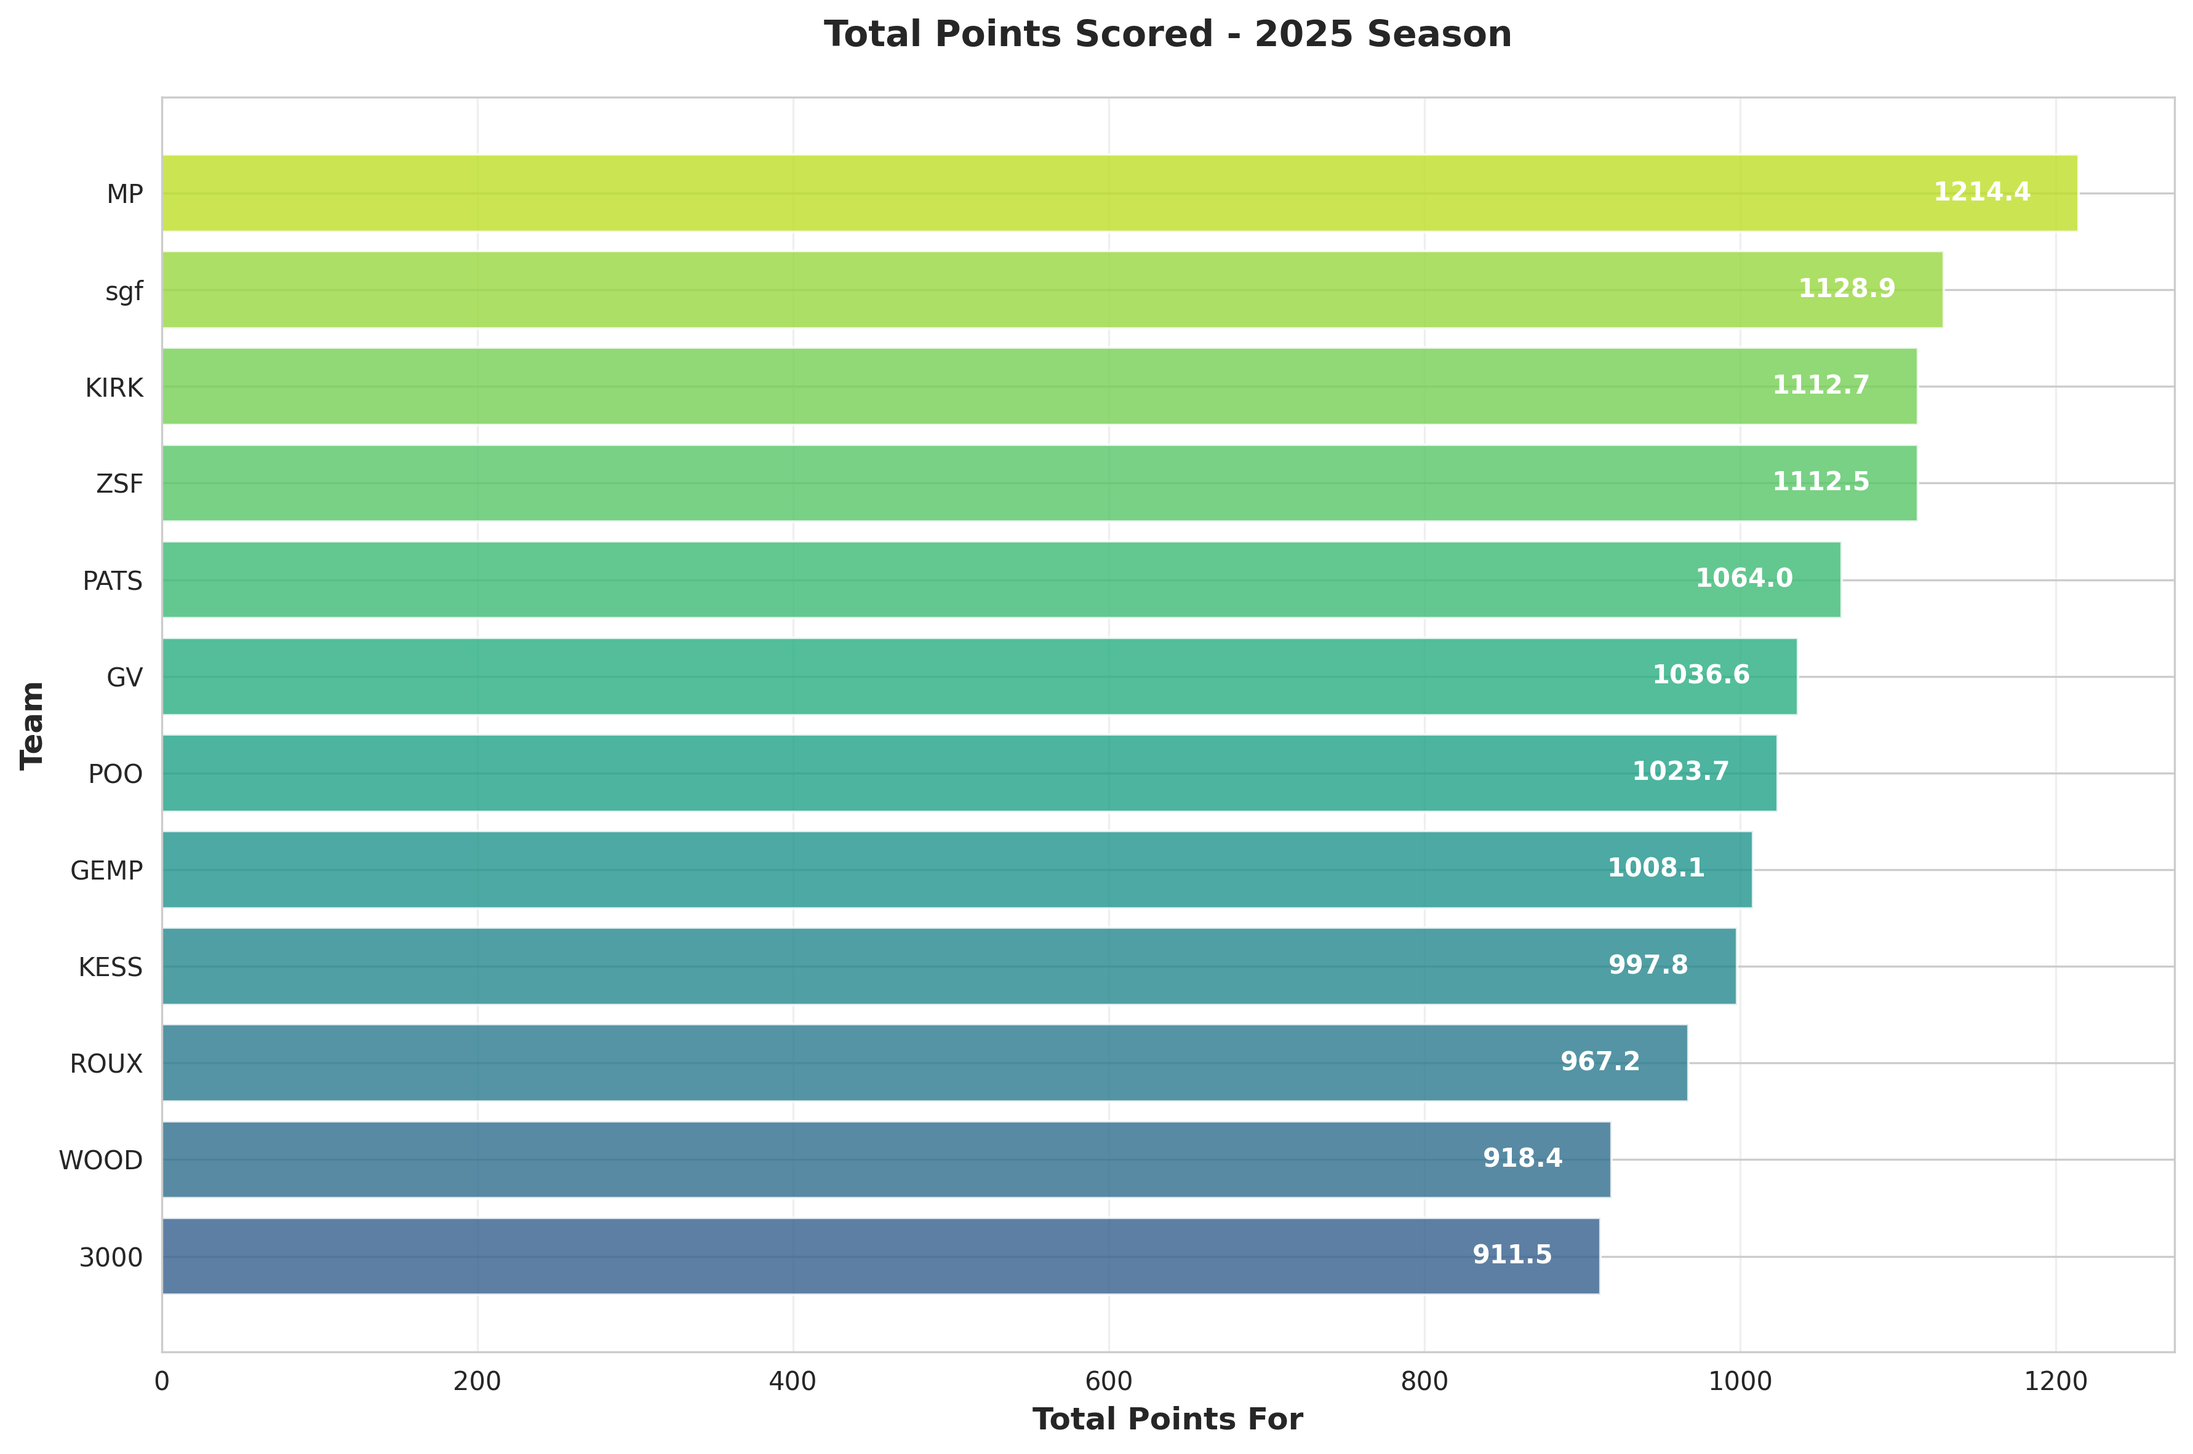
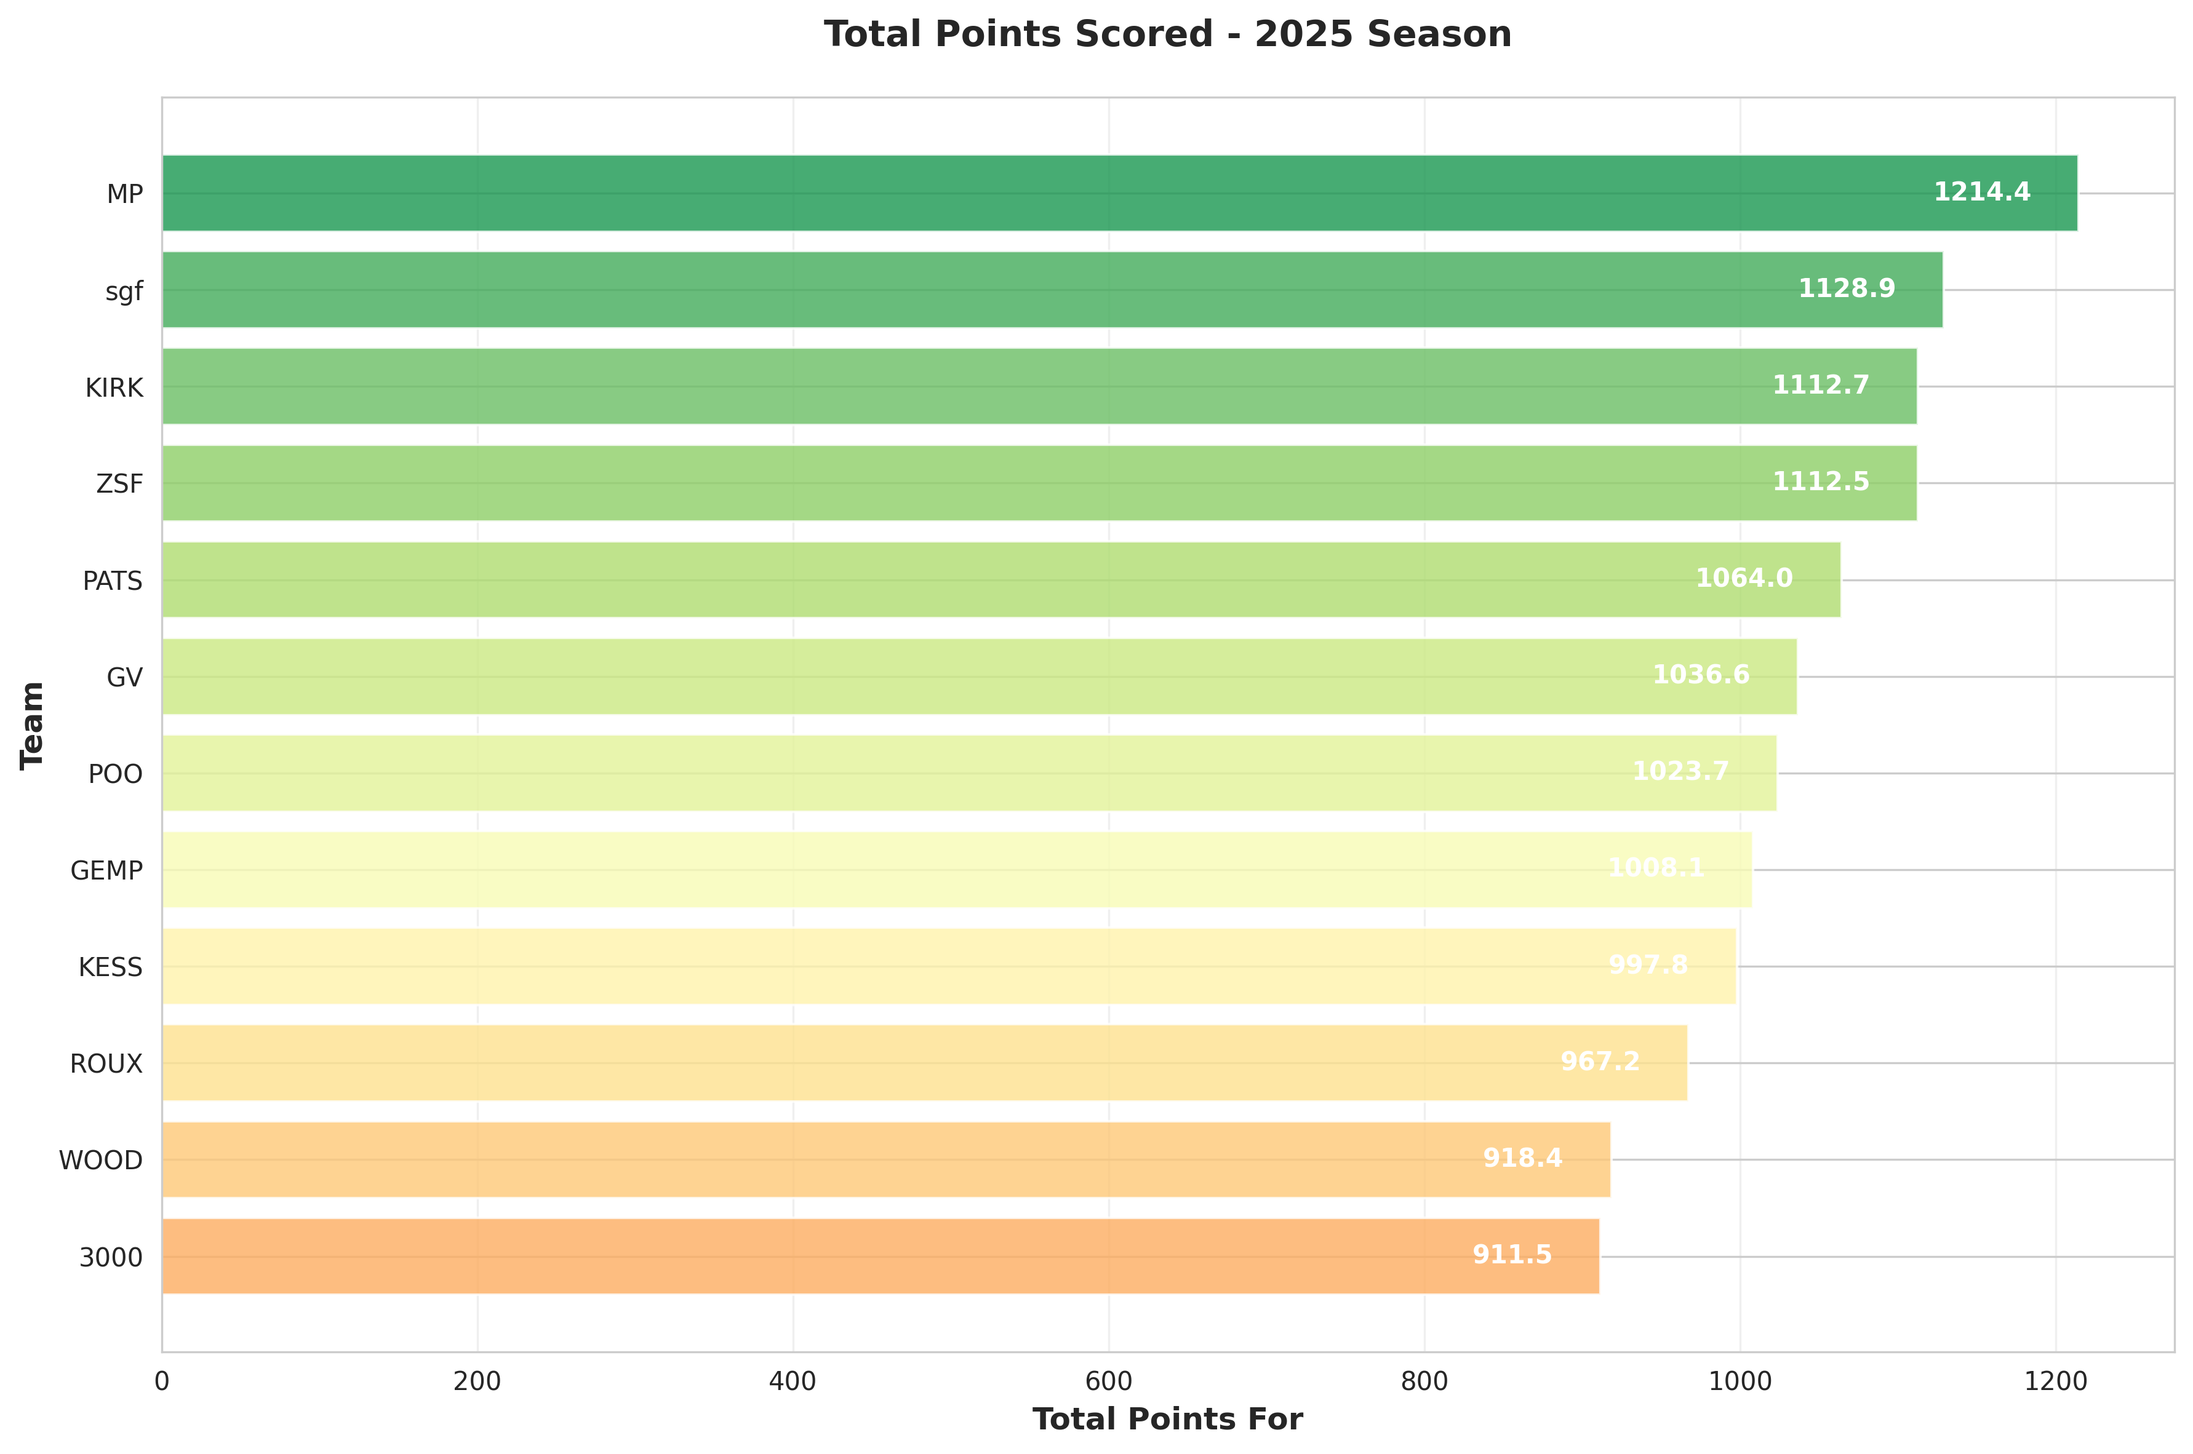
Add power rankings and new visualizations to team analysis
Update team_analysis.py to calculate and display power rankings, introduce new visualizations for power rankings and their breakdown, and modify README.md and team_summary.csv to reflect these changes.

Replit-Commit-Author: Agent
Replit-Commit-Session-Id: a1b036e6-8762-4180-88a8-0ea07671e400
Replit-Commit-Checkpoint-Type: full_checkpoint
Replit-Commit-Event-Id: 2f82d3db-87ee-41e6-abde-1336a5426d25

diff --git a/team_analysis.py b/team_analysis.py
@@ -45,11 +45,18 @@ def calculate_summary_stats(df):
         'weekly_rank': 'avg_weekly_rank'
     })
     
+    # Calculate Power Rankings
+    # Formula: (Real Wins × 2) + (Top6 Wins × 1) + (MVP-W × 1)
+    # Weights actual wins heavily, but rewards consistent high scoring
+    summary['power_score'] = (summary['real_wins'] * 2) + summary['top6_wins'] + summary['mvp_w']
+    summary['power_rank'] = summary.groupby('season')['power_score'].rank(ascending=False, method='min').astype(int)
+    
     # Round numeric columns
     summary['wax'] = summary['wax'].round(2)
     summary['ppg'] = summary['ppg'].round(2)
     summary['papg'] = summary['papg'].round(2)
     summary['avg_weekly_rank'] = summary['avg_weekly_rank'].round(2)
+    summary['power_score'] = summary['power_score'].round(2)
     
     # Sort by WAX (descending - most lucky first)
     summary = summary.sort_values('wax', ascending=False)
@@ -61,22 +68,23 @@ def print_summary_table(summary):
     print("\n" + "="*100)
     print("ESPN FANTASY FOOTBALL TEAM SUMMARY - 2024-2025 SEASONS")
     print("="*100)
-    print("\nWins Above Expectation (WAX) is derived via the following equation:")
+    print("\nPOWER RANKINGS FORMULA:")
+    print("  [Power Score] = (Real Wins × 2) + (Top6 Wins × 1) + (MVP-W × 1)")
+    print("  This weights actual matchup wins heavily while rewarding consistent high scoring.")
+    print("\nWINS ABOVE EXPECTATION (WAX):")
     print("  [WAX] = [Real Wins] - [MVP-W]")
-    print("\n[MVP-W], or Minimized Variance Potential Wins, represents a win-value agnostic")
-    print("to the weekly opponent (by calculating a theoretical win rate [0-1] assuming the")
-    print("team played all teams every week). Thus, the greater the WAX value, the more the")
-    print("manager is \"running hot\" (i.e. lucky as fuck).")
+    print("  MVP-W represents theoretical wins if playing all teams every week.")
+    print("  Positive WAX = lucky (running hot), Negative WAX = unlucky (running cold).")
     print("="*100)
     print()
     
     # Select and order columns for display
-    display_cols = ['team_name', 'season', 'real_wins', 'mvp_w', 'wax', 'top6_wins', 
-                   'points_for', 'ppg', 'avg_weekly_rank', 'games_played']
+    display_cols = ['team_name', 'season', 'power_rank', 'power_score', 'real_wins', 
+                   'top6_wins', 'mvp_w', 'wax', 'ppg', 'games_played']
     
     display_df = summary[display_cols].copy()
-    display_df.columns = ['Team', 'Season', 'Wins', 'MVP-W', 'WAX', 'Top6', 
-                          'Total PF', 'PPG', 'Avg Rank', 'GP']
+    display_df.columns = ['Team', 'Season', 'Rank', 'Power', 'Wins', 'Top6', 
+                          'MVP-W', 'WAX', 'PPG', 'GP']
     
     print(display_df.to_string(index=False))
     print("\n" + "="*100)
@@ -91,6 +99,41 @@ def create_visualizations(df, summary):
     # Get latest season data
     latest_season = df['season'].max()
     current_summary = summary[summary['season'] == latest_season].copy()
+    
+    # Figure 0: Power Rankings
+    fig, ax = plt.subplots(figsize=(12, 9))
+    
+    # Sort by power score
+    power_sorted = current_summary.sort_values('power_score', ascending=True)
+    
+    # Create color map based on rank
+    colors_power = plt.cm.RdYlGn(np.linspace(0.3, 0.9, len(power_sorted)))[::-1]
+    bars = ax.barh(power_sorted['team_name'], power_sorted['power_score'], 
+                   color=colors_power, alpha=0.85, edgecolor='black', linewidth=1.5)
+    
+    ax.set_xlabel('Power Score', fontsize=12, fontweight='bold')
+    ax.set_ylabel('Team', fontsize=12, fontweight='bold')
+    ax.set_title(f'Power Rankings - {latest_season} Season\nFormula: (Wins × 2) + (Top6 Wins) + (MVP-W)', 
+                 fontsize=14, fontweight='bold', pad=20)
+    ax.grid(axis='x', alpha=0.3)
+    
+    # Add value labels and rank
+    for bar, (idx, row) in zip(bars, power_sorted.iterrows()):
+        width = bar.get_width()
+        # Power score on the right
+        ax.text(width + 0.3, bar.get_y() + bar.get_height()/2, 
+               f'{width:.2f}', ha='left', va='center', 
+               fontweight='bold', fontsize=10)
+        # Rank number on the left
+        ax.text(0.5, bar.get_y() + bar.get_height()/2, 
+               f'#{int(row["power_rank"])}', ha='left', va='center', 
+               fontweight='bold', fontsize=11, color='white',
+               bbox=dict(boxstyle='round,pad=0.3', facecolor='black', alpha=0.7))
+    
+    plt.tight_layout()
+    plt.savefig('visualizations/power_rankings.png', dpi=300, bbox_inches='tight')
+    print("✓ Created: visualizations/power_rankings.png")
+    plt.close()
     
     # Figure 1: WAX Leaderboard
     fig, ax = plt.subplots(figsize=(12, 8))
@@ -157,7 +200,7 @@ def create_visualizations(df, summary):
     fig, ax = plt.subplots(figsize=(12, 8))
     
     sorted_summary = current_summary.sort_values('points_for', ascending=True)
-    colors_pf = plt.cm.viridis(np.linspace(0.3, 0.9, len(sorted_summary)))
+    colors_pf = plt.cm.RdYlGn(np.linspace(0.3, 0.9, len(sorted_summary)))
     bars = ax.barh(sorted_summary['team_name'], sorted_summary['points_for'], 
                    color=colors_pf, alpha=0.8)
     
@@ -179,7 +222,44 @@ def create_visualizations(df, summary):
     print("✓ Created: visualizations/total_points.png")
     plt.close()
     
-    # Figure 4: Weekly Performance Over Time
+    # Figure 4: Power Score Breakdown (Stacked Bar)
+    fig, ax = plt.subplots(figsize=(12, 9))
+    
+    breakdown_sorted = current_summary.sort_values('power_score', ascending=True)
+    
+    # Components: Real Wins (×2), Top6 Wins, MVP-W
+    wins_component = breakdown_sorted['real_wins'] * 2
+    top6_component = breakdown_sorted['top6_wins']
+    mvp_component = breakdown_sorted['mvp_w']
+    
+    y_pos = np.arange(len(breakdown_sorted))
+    
+    p1 = ax.barh(y_pos, wins_component, label='Real Wins (×2)', color='#2ecc71', alpha=0.9)
+    p2 = ax.barh(y_pos, top6_component, left=wins_component, label='Top6 Wins', color='#3498db', alpha=0.9)
+    p3 = ax.barh(y_pos, mvp_component, left=wins_component + top6_component, 
+                label='MVP-W', color='#9b59b6', alpha=0.9)
+    
+    ax.set_yticks(y_pos)
+    ax.set_yticklabels(breakdown_sorted['team_name'])
+    ax.set_xlabel('Power Score Components', fontsize=12, fontweight='bold')
+    ax.set_ylabel('Team', fontsize=12, fontweight='bold')
+    ax.set_title(f'Power Score Breakdown - {latest_season} Season', 
+                 fontsize=14, fontweight='bold', pad=20)
+    ax.legend(loc='lower right', fontsize=10, framealpha=0.9)
+    ax.grid(axis='x', alpha=0.3)
+    
+    # Add total labels
+    for i, (idx, row) in enumerate(breakdown_sorted.iterrows()):
+        total = row['power_score']
+        ax.text(total + 0.3, i, f'{total:.2f}', 
+               ha='left', va='center', fontweight='bold', fontsize=10)
+    
+    plt.tight_layout()
+    plt.savefig('visualizations/power_breakdown.png', dpi=300, bbox_inches='tight')
+    print("✓ Created: visualizations/power_breakdown.png")
+    plt.close()
+    
+    # Figure 5: Weekly Performance Over Time
     fig, ax = plt.subplots(figsize=(14, 8))
     
     # Get current season data
@@ -203,7 +283,7 @@ def create_visualizations(df, summary):
     print("✓ Created: visualizations/weekly_performance.png")
     plt.close()
     
-    # Figure 5: Weekly Rank Heatmap
+    # Figure 6: Weekly Rank Heatmap
     fig, ax = plt.subplots(figsize=(14, 10))
     
     # Create pivot table for heatmap
@@ -225,7 +305,7 @@ def create_visualizations(df, summary):
     print("✓ Created: visualizations/weekly_rank_heatmap.png")
     plt.close()
     
-    # Figure 6: Consistency Analysis (Std Dev of Weekly Rank)
+    # Figure 7: Consistency Analysis (Std Dev of Weekly Rank)
     fig, ax = plt.subplots(figsize=(12, 8))
     
     consistency = current_df.groupby('team_name').agg({
@@ -294,7 +374,9 @@ def main():
     print("ANALYSIS COMPLETE!")
     print("="*100)
     print("\nGenerated Files:")
-    print("  • team_summary.csv - Summary statistics table")
+    print("  • team_summary.csv - Summary statistics table with Power Rankings")
+    print("  • visualizations/power_rankings.png - Overall power rankings")
+    print("  • visualizations/power_breakdown.png - Power score component breakdown")
     print("  • visualizations/wax_leaderboard.png - Luck index ranking")
     print("  • visualizations/wins_vs_expected.png - Real wins vs expected wins")
     print("  • visualizations/total_points.png - Total points scored by team")

diff --git a/replit.md b/replit.md
@@ -1,0 +1,141 @@
+# ESPN Fantasy Football Scraper & Analyzer
+
+## Overview
+A comprehensive ESPN Fantasy Football data scraper and analysis tool that downloads historical league data and generates advanced statistical visualizations.
+
+**Current Status**: Fully functional with 2025 season data (weeks 1-10 processed)
+
+## Recent Changes (November 12, 2025)
+
+### Power Rankings System Added
+- Created comprehensive Power Rankings formula: `(Real Wins × 2) + (Top6 Wins) + (MVP-W)`
+- Added `power_rankings.png` visualization showing team rankings #1-#12
+- Added `power_breakdown.png` showing stacked bar chart of power score components
+- Updated `team_summary.csv` to include power_rank and power_score columns
+- Total visualizations: 8 charts now generated
+
+### Previous Features
+- ESPN API integration with private league authentication (ESPN_S2, SWID secrets)
+- Multi-season data scraping with automatic unplayed week filtering
+- Three CSV exports: matchups.csv, player_stats.csv, team_stats.csv
+- Human-readable team names, positions (QB/RB/WR/TE/K/D/ST), and slot positions (FLEX/BENCH/IR)
+- Advanced metrics: WAX (Wins Above Expectation), MVP-W, Top6 Wins
+- CSV overwrite mode (fresh data on each run)
+
+## Project Architecture
+
+### Core Files
+- **espn_ff_scraper.py** - Main scraper with CLI interface
+- **espn_api.py** - ESPN API wrapper for data fetching
+- **data_processor.py** - Data transformation and calculations
+- **csv_generator.py** - CSV file generation
+- **position_mapping.py** - Position/slot ID to name mappings
+- **config.py** - Configuration constants
+- **team_analysis.py** - Analysis and visualization generator (NEW)
+
+### Data Files
+- **team_stats.csv** - Weekly team statistics (120 rows for 2025)
+- **matchups.csv** - Head-to-head matchup results (3,469 rows)
+- **player_stats.csv** - Individual player performance (3,185 rows)
+- **team_summary.csv** - Season summary with power rankings (12 teams)
+
+### Visualizations (8 total)
+1. `power_rankings.png` - Power rankings leaderboard
+2. `power_breakdown.png` - Power score components (stacked bar)
+3. `wax_leaderboard.png` - Luck index (WAX)
+4. `wins_vs_expected.png` - Real vs expected wins scatter
+5. `total_points.png` - Total points scored
+6. `weekly_performance.png` - Weekly scoring trends
+7. `weekly_rank_heatmap.png` - Weekly rank grid
+8. `consistency.png` - Team consistency analysis
+
+## User Workflow
+
+### 1. Scraping Data
+```bash
+python espn_ff_scraper.py --league_id 149388 --years 2024 2025
+```
+- Authenticates using ESPN_S2 and SWID secrets
+- Filters out unplayed weeks automatically
+- Overwrites CSV files on each run
+
+### 2. Analyzing Data
+```bash
+python team_analysis.py
+```
+- Generates team_summary.csv with power rankings
+- Creates 8 visualization charts in visualizations/ folder
+- Outputs summary table to console
+
+## Key Metrics Explained
+
+### Power Score
+`(Real Wins × 2) + (Top6 Wins) + (MVP-W)`
+- Weights actual matchup wins heavily (2x)
+- Rewards consistent top-half scoring (Top6 Wins)
+- Includes theoretical all-play performance (MVP-W)
+
+### MVP-W (Minimized Variance Potential Wins)
+- Theoretical win rate if team played all opponents every week
+- Range: 0-1 per week, summed across season
+- Example: 0.8182 in week 1 = would beat 9 of 11 teams
+
+### WAX (Wins Above Expectation)
+`Real Wins - MVP-W`
+- Positive = lucky (winning more than expected)
+- Negative = unlucky (losing despite good scoring)
+- Identifies scheduling luck vs. skill
+
+### Top6 Wins
+- Binary: 1 if ranked in top 6 scorers that week, 0 otherwise
+- Measures consistency of high-scoring performances
+
+## 2025 Season Insights
+
+### Power Rankings Top 3
+1. **MP** - Power Score: 31.73 (8 wins, dominant)
+2. **sgf** - Power Score: 24.18 (6 wins, consistent)
+3. **KIRK & GV** - Power Score: 23.36 (tied)
+
+### Luckiest Teams (WAX)
+1. **GEMP** - WAX: +2.00 (6 wins vs 4.0 expected)
+2. **KESS** - WAX: +0.91
+3. **GV** - WAX: +0.64
+
+### Unluckiest Teams (WAX)
+1. **KIRK** - WAX: -1.36 (5 wins vs 6.4 expected)
+2. **3000** - WAX: -1.18
+3. **ZSF** - WAX: -0.64
+
+## Technical Notes
+
+### API Behavior
+- ESPN returns ALL season matchups in one API response
+- Each matchup has a `matchupPeriodId` indicating its actual week
+- Must filter by `matchupPeriodId == requested_week` to get correct data
+- Unplayed weeks return week 1 data (must check matchupPeriodId for filtering)
+
+### Filtering Logic
+```python
+def has_week_been_played(boxscore_data, requested_week):
+    # Find matchups where matchupPeriodId == requested_week
+    # Check if any have scores > 0
+    # Returns True only if week has actual game data
+```
+
+### Dependencies
+- Python packages: pandas, matplotlib, seaborn, requests
+- Replit secrets: ESPN_S2, SWID (for private league access)
+
+## Future Enhancements (Ideas)
+- Multi-season power rankings comparison
+- Playoff probability calculator
+- Trade value analyzer
+- Weekly matchup predictions
+- Historical trend analysis across years
+
+## Maintenance Notes
+- ESPN cookies (ESPN_S2, SWID) may expire periodically
+- Replit secrets are stored securely, never committed to code
+- CSV files auto-overwrite to prevent duplicates
+- Visualizations regenerate on each analysis run

diff --git a/README.md b/README.md
@@ -88,14 +88,22 @@ python team_analysis.py
 ```
 
 **This creates:**
-- **team_summary.csv** - Season summary with WAX (Wins Above Expectation) metric
+- **team_summary.csv** - Season summary with Power Rankings and WAX (Wins Above Expectation) metric
 - **visualizations/** folder containing:
+  - `power_rankings.png` - Overall power rankings (#1-#12)
+  - `power_breakdown.png` - Stacked bar chart showing power score components
   - `wax_leaderboard.png` - Luck index showing who's running hot/cold
   - `wins_vs_expected.png` - Real wins vs expected wins scatter plot
   - `total_points.png` - Total points scored by each team
   - `weekly_performance.png` - Weekly scoring trends over time
   - `weekly_rank_heatmap.png` - Visual grid of weekly rankings
   - `consistency.png` - Team consistency analysis
+
+**About Power Rankings:**
+```
+[Power Score] = (Real Wins × 2) + (Top6 Wins) + (MVP-W)
+```
+This formula heavily weights actual matchup wins while also rewarding teams that consistently score in the top half and beat multiple opponents each week.
 
 **About WAX (Wins Above Expectation):**
 ```
